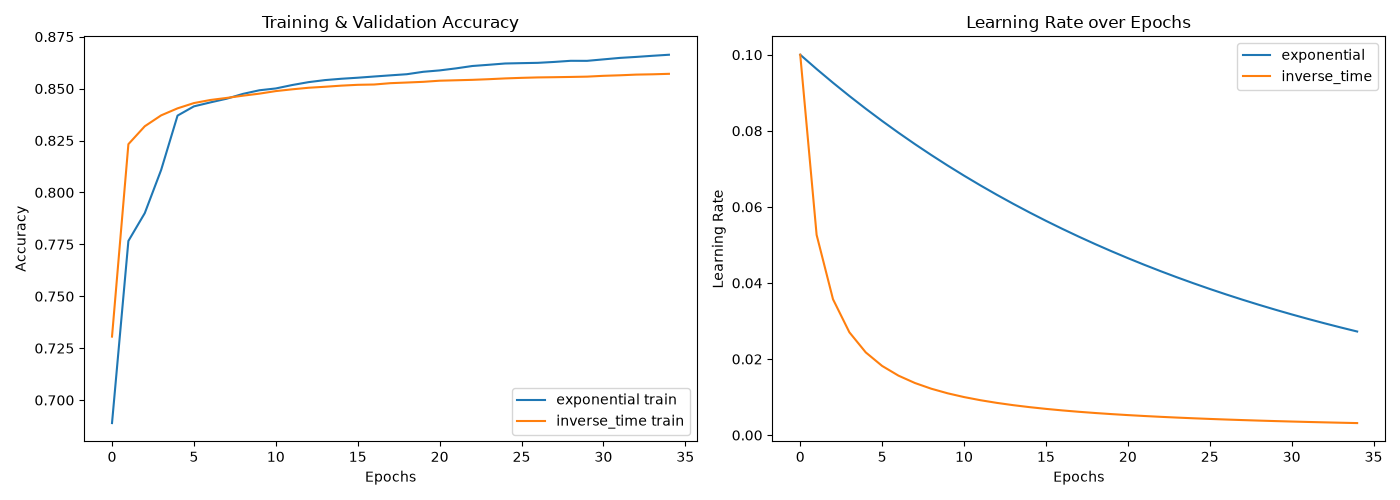
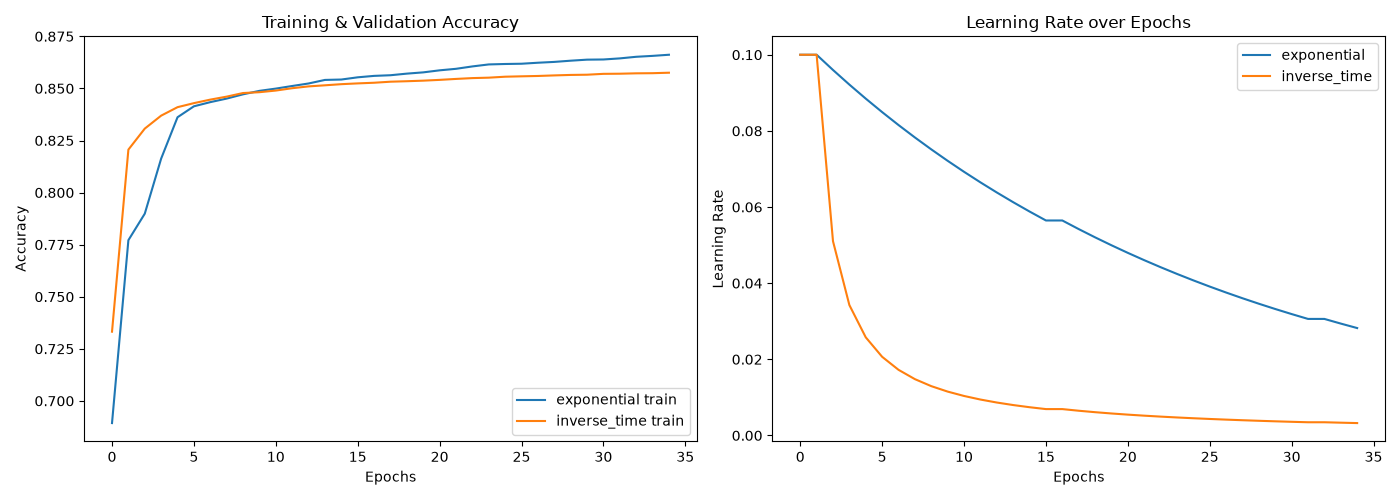
Add task

diff --git a/deep_learning/enhancing_dl_models/3-learning_rate_schedule.py b/deep_learning/enhancing_dl_models/3-learning_rate_schedule.py
@@ -14,12 +14,14 @@ def get_optimizer_SGD_with_schedule(
         lr_schedule = keras.optimizers.schedules.ExponentialDecay(
             initial_learning_rate=initial_lr,
             decay_steps=decay_steps,
-            decay_rate=decay_rate)
+            decay_rate=decay_rate,
+            staircase=True)
     elif schedule_type == "inverse_time":
         lr_schedule = keras.optimizers.schedules.InverseTimeDecay(
             initial_learning_rate=initial_lr,
             decay_steps=decay_steps,
-            decay_rate=decay_rate)
+            decay_rate=decay_rate,
+            staircase=True)
 
     optimizer = keras.optimizers.SGD(
         learning_rate=lr_schedule, momentum=momentum)
